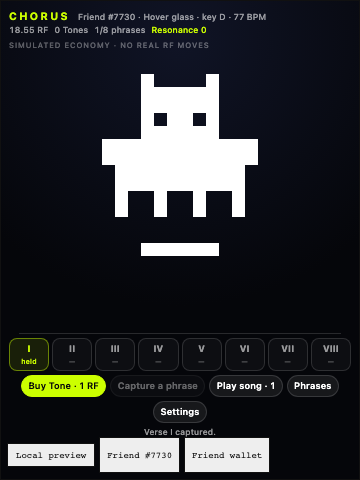
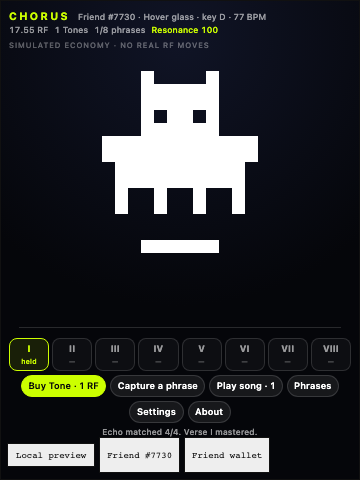
Second pass: lock actions during playback, honour reduced motion, prove the echo
Review of the first cut found two real defects:

- Only the echo blocked the action buttons, so during the ~3s reveal a player
  holding a spare Tone could start a second capture over the top of the first,
  spending it and tangling the audio and echo state. All non-idle stages now
  own the controls.
- The Settings "Reduce motion" toggle only reached the canvas. Every CSS
  transition kept running because they were guarded solely by the
  prefers-reduced-motion media query. The toggle now sets a root attribute the
  stylesheet honours.

Also: track gross RF spent on Tones rather than inferring it from the stake,
which netted out redemptions and understated activity; make the background
inert while a menu is open; label rail slots for screen readers; reach the
About panel from the toolbar; explain why buying is unavailable instead of
only graying the button; add a full-resonance state.

Tests now cover what was previously only assumed. The double-capture assertion
buys two Tones first, so it fails against the old code rather than passing
because the player simply ran out. Echo scoring is driven on the composed
77 BPM cadence from inside the page and asserts the phrase is mastered, which
confirms hit detection works at all. Stable over four consecutive runs.

diff --git a/games/chorus/index.tsx b/games/chorus/index.tsx
@@ -18,7 +18,7 @@ const ECHO_WINDOW_MS = 160;
 const MASTERY = 0.6;
 const rf = (value: bigint) => `${formatGameAmount(value, 18)} RF`;
 
-type Menu = "buy" | "inventory" | "settings" | "about" | null;
+type Menu = "inventory" | "settings" | "about" | null;
 type Stage =
   | { kind: "idle" }
   | { kind: "revealing"; outcomeId: number }
@@ -42,6 +42,7 @@ export default function Chorus({ friendId, client, paused }: GameComponentProps)
   const [beamNote, setBeamNote] = useState(-1);
   const [hitNotes, setHitNotes] = useState<readonly number[]>([]);
   const [artAttempt, setArtAttempt] = useState(0);
+  const [spentRf, setSpentRf] = useState(0n);
 
   const synth = useRef<ChorusSynth | null>(null);
   const cues = useRef<FriendSoundKit | null>(null);
@@ -75,7 +76,7 @@ export default function Chorus({ friendId, client, paused }: GameComponentProps)
     cues.current = createFriendSoundKit({ muted: false });
     setSnapshot(null); setSprites(null); setMenu(null); setStage({ kind: "idle" });
     setError(""); setArtError(""); setMessage(""); setBusy(false);
-    setMuted(false); setResonance(0); setMastered([]); setLit(null);
+    setMuted(false); setResonance(0); setMastered([]); setLit(null); setSpentRf(0n);
     locked.current = false;
 
     // The runtime leaves its loading state only once the child reads its snapshot.
@@ -335,11 +336,16 @@ export default function Chorus({ friendId, client, paused }: GameComponentProps)
   const pendingPlay = snapshot.plays.some(play => play.outcomeId === null);
   const canCapture = Boolean(song) && (pendingPlay || snapshot.consumables > 0n);
   const performing = stage.kind === "echo";
+  // Any non-idle stage owns the audio and the timers; nothing else may start.
+  const engaged = stage.kind !== "idle";
   // The phrase currently sounding or being echoed, drawn as pitch-height bars.
   const ribbon = song && lit !== null && stage.kind !== "idle" ? song.phrases[lit] : null;
-  const spent = snapshot.stake - maxPrize * 10n;
 
-  return <section className="chorus" aria-label="Chorus" aria-busy={busy} data-stage={stage.kind}>
+
+  return <section className="chorus" aria-label="Chorus" aria-busy={busy} data-stage={stage.kind}
+    data-reduced-motion={reducedMotion ? "true" : undefined} data-complete={complete ? "true" : undefined}>
+    {/* Background is inert while a menu owns the frame, so Tab cannot reach it. */}
+    <div className="chorus-body" inert={Boolean(menu) || paused || undefined}>
     <header className="chorus-hud">
       <div className="chorus-identity">
         <strong>Chorus</strong>
@@ -384,6 +390,7 @@ export default function Chorus({ friendId, client, paused }: GameComponentProps)
       {definition.outcomes.map((outcome, index) => {
         const count = held[index];
         return <li key={outcome.name}
+          aria-label={`${outcome.name}: ${count > 0 ? `held${count > 1 ? `, ${count} copies` : ""}` : "not yet captured"}`}
           className={`chorus-slot${count > 0 ? " held" : ""}${lit === index ? " lit" : ""}${mastered.includes(index) ? " mastered" : ""}`}>
           <span className="chorus-numeral" aria-hidden="true">{ROMAN[index]}</span>
           <span className="chorus-name">{outcome.name}</span>
@@ -393,31 +400,38 @@ export default function Chorus({ friendId, client, paused }: GameComponentProps)
     </ol>
 
     <div className="chorus-actions">
-      <button type="button" className="rf-frame-primary" disabled={!canBuy || busy || paused || performing}
+      <button type="button" className="rf-frame-primary" disabled={!canBuy || busy || paused || engaged}
         onClick={() => void act(async () => {
           await client.buy(1n);
+          setSpentRf(total => total + definition.price);
           void cues.current?.unlock();
           cues.current?.play("purchase");
           setMessage("One simulated Tone added.");
         })}>Buy Tone · {rf(definition.price)}</button>
-      <button type="button" disabled={!canCapture || busy || paused || performing} onClick={() => void capture()}>
+      <button type="button" disabled={!canCapture || busy || paused || engaged} onClick={() => void capture()}>
         {pendingPlay ? "Finish capture" : "Capture a phrase"}
       </button>
-      <button type="button" disabled={busy || paused || performing || heldCount === 0 || stage.kind === "song"}
+      <button type="button" disabled={busy || paused || engaged || heldCount === 0}
         onClick={() => void playSong()}>{complete ? "Play the whole song" : `Play song · ${heldCount}`}</button>
       {stage.kind === "song" && <button type="button" onClick={stopEverything}>Stop</button>}
-      <button type="button" onClick={() => setMenu("inventory")} disabled={busy || performing}>Phrases</button>
-      <button type="button" onClick={() => setMenu("settings")} disabled={performing}>Settings</button>
+      <button type="button" onClick={() => { stopEverything(); setMenu("inventory"); }} disabled={busy}>Phrases</button>
+      <button type="button" onClick={() => { stopEverything(); setMenu("settings"); }}>Settings</button>
+      <button type="button" onClick={() => { stopEverything(); setMenu("about"); }}>About</button>
     </div>
 
     <p className="chorus-feedback" role={error ? "alert" : "status"}>
-      {error || message || (busy ? "Waiting for the runtime…" : complete
-        ? "Every phrase is held. Play the whole song."
+      {error || message || (busy ? "Waiting for the runtime…"
+        : !canBuy && snapshot.consumables === 0n && !pendingPlay
+          ? (snapshot.rfBalance < definition.price
+            ? "Not enough simulated RF for another Tone."
+            : "Purchases pause until the game holds enough free backing.")
+        : complete ? "Full resonance — every phrase is held. Play the whole song."
         : "Buy a Tone, capture a phrase, echo it back.")}
     </p>
+    </div>
 
     {menu && <GameMenu
-      title={menu === "inventory" ? "Phrases held" : menu === "settings" ? "Settings" : menu === "buy" ? "Tones" : "About Chorus"}
+      title={menu === "inventory" ? "Phrases held" : menu === "settings" ? "Settings" : "About Chorus"}
       onClose={busy ? undefined : () => { setMenu(null); setError(""); }}>
       {menu === "inventory" ? <>
         <p>A phrase you hold is audible in your song. Redeeming it returns {"its"} simulated RF and removes it from the arrangement.</p>
@@ -447,7 +461,7 @@ export default function Chorus({ friendId, client, paused }: GameComponentProps)
         <p className="chorus-note">
           Simulated RF, Tones and phrases last for this runtime session only; reloading starts a new one.
           The SDK supplies wallet connection and fresh ownership verification.
-          Simulated RF committed this session: {rf(spent > 0n ? spent : 0n)}.
+          Simulated RF spent on Tones this session: {rf(spentRf)}.
         </p>
       </> : <>
         <p>Every Friend's song comes from its own on-chain data: {"familyOf(tokenId)"} chooses the voice and scale, {"seedOf(tokenId)"} sets the key, tempo and melody.</p>

diff --git a/games/chorus/style.css b/games/chorus/style.css
@@ -6,18 +6,22 @@
   --dim: rgba(255, 255, 255, 0.58);
   position: absolute;
   inset: 0;
-  display: flex;
-  flex-direction: column;
-  gap: clamp(2px, 0.9vh, 10px);
   box-sizing: border-box;
-  /* Keep clear of the runtime's own bottom-left and bottom-right controls. */
-  padding: clamp(6px, 1.6vh, 16px) clamp(8px, 2vw, 22px) clamp(40px, 8.5vh, 60px);
   background:
     radial-gradient(120% 90% at 50% 8%, #101426 0%, var(--ink) 62%),
     var(--ink);
   color: #fff;
   font: 500 clamp(10px, 1.55vh, 14px) / 1.35 ui-sans-serif, system-ui, sans-serif;
   overflow: hidden;
+}
+.chorus-body {
+  display: flex;
+  flex-direction: column;
+  gap: clamp(2px, 0.9vh, 10px);
+  height: 100%;
+  box-sizing: border-box;
+  /* Keep clear of the runtime's own bottom-left and bottom-right controls. */
+  padding: clamp(6px, 1.6vh, 16px) clamp(8px, 2vw, 22px) clamp(40px, 8.5vh, 60px);
 }
 .chorus button {
   font: inherit;
@@ -94,10 +98,27 @@
   .chorus-pad:active { transform: none; }
 }
 
+.chorus[data-reduced-motion="true"] *,
+.chorus[data-reduced-motion="true"] *::before,
+.chorus[data-reduced-motion="true"] *::after {
+  transition: none !important;
+  animation: none !important;
+}
+.chorus[data-reduced-motion="true"] .chorus-pad:active { transform: none; }
+
+/* Full resonance: every phrase held. The rail reads as one lit object. */
+.chorus[data-complete="true"] .chorus-slot.held {
+  background: rgba(204, 255, 0, 0.18);
+  border-color: var(--accent);
+  box-shadow: 0 0 14px rgba(204, 255, 0, 0.22);
+}
+.chorus[data-complete="true"] .chorus-identity strong { text-shadow: 0 0 16px rgba(204, 255, 0, 0.65); }
+
 /* The note ribbon: every note is a bar whose height is its pitch. This is the
    visual twin of the audio, so the game reads identically with sound off. */
-.chorus-ribbon { display: flex; align-items: flex-end; justify-content: center; gap: clamp(3px, 0.8vw, 7px); width: min(460px, 94%); height: clamp(30px, 8.5vh, 68px); flex: 0 0 auto; pointer-events: none; border-bottom: 1px solid var(--line); }
+.chorus-ribbon { display: flex; align-items: flex-end; justify-content: center; gap: clamp(3px, 0.8vw, 7px); width: min(460px, 94%); height: clamp(30px, 8.5vh, 68px); flex: 0 0 auto; pointer-events: none; border-bottom: 1px solid var(--line); margin-bottom: clamp(3px, 1.2vh, 10px); }
 .chorus-bar { flex: 1 1 0; min-width: 5px; max-width: 54px; border-radius: 3px 3px 0 0; background: rgba(255, 255, 255, 0.16); transition: background 90ms linear, box-shadow 90ms linear; }
 .chorus-bar.hit { background: rgba(204, 255, 0, 0.5); }
 .chorus-bar.now { background: var(--accent); box-shadow: 0 0 12px rgba(204, 255, 0, 0.7); }
 @media (prefers-reduced-motion: reduce) { .chorus-bar { transition: none; } }
+.chorus[data-reduced-motion="true"] .chorus-bar { transition: none; }

diff --git a/README.md b/README.md
@@ -118,14 +118,33 @@ npm run build           # static preview bundle into ./dist
 | `friendsdk check` | valid; expected reward 0.9 RF, maximum 7 RF |
 | Browser check @ 960 px | pass |
 | Browser check @ 360 px | pass |
+| Echo scoring played in time | 4/4 matched, phrase mastered |
 | FriendSDK `npm test` (v0.1.2 checkout) | 116 tests, 114 pass, 0 fail, 2 skipped (contract tests skip without Foundry) |
 | `tsc --noEmit` | clean |
 
 The browser check drives the **real** runtime in headless Chromium using the SDK's
-read-only wallet/RPC fixtures, asserting the whole loop: artwork resolves, the
-composed voice matches the fixture Friend, buy → capture → echo → hold, play song,
-redeem releases the phrase, and the mute and reduced-motion controls work. Mocks
-are confined to that automated check; `dev` and `build` keep the real ownership gate.
+read-only wallet/RPC fixtures. It asserts:
+
+- the Friend's canonical artwork resolves from the registry;
+- the composed voice, key and tempo match the fixture Friend (family 5, seed 7730
+  produces Hover glass in D at 77 BPM);
+- buy → capture → hold, and that the phrase lights its rail slot;
+- **the capture and play controls stay locked while a phrase is playing**, with a
+  spare Tone in hand, so a second capture cannot start over the first;
+- **the echo scores when played in time** — the pad is driven on the composed
+  77 BPM cadence from inside the page and must master the phrase;
+- Resonance rises while the ledger is untouched, since mastery is non-financial;
+- redeeming releases the phrase and darkens the slot;
+- the mute and reduced-motion controls work, and the reduced-motion toggle
+  reaches the CSS and not only the canvas.
+
+Mocks are confined to that automated check; `dev` and `build` keep the real
+ownership gate.
+
+**Not covered by the automated check:** the fixture pins the preview roll, so
+every settle resolves to outcome 1. The full-resonance state (all eight phrases
+held) and the rarer phrases are therefore exercised by hand rather than by the
+harness.
 
 ## Layout
 

diff --git a/games/chorus/README.md b/games/chorus/README.md
@@ -128,10 +128,15 @@ node games/chorus/test.mjs 360 ./artifacts/chorus-360.png
 ```
 
 `test.mjs` drives the real runtime in headless Chromium with the SDK's read-only
-wallet/RPC fixtures and asserts the full loop: artwork resolves, the composed
-voice matches the fixture Friend, buy → capture → echo → hold, play, redeem
-releases the phrase, and the mute and reduced-motion controls work. Requires
-`playwright` and Chromium.
+wallet/RPC fixtures. It asserts that the artwork resolves, the composed voice
+matches the fixture Friend, buy → capture → hold works, the capture and play
+controls stay locked while a phrase is playing (with a spare Tone in hand), the
+echo masters the phrase when played on the composed 77 BPM cadence, Resonance
+rises without touching the ledger, redeeming releases the phrase, and the mute
+and reduced-motion controls work. Requires `playwright` and Chromium.
+
+The fixture pins the preview roll to outcome 1, so the full-resonance state and
+the rarer phrases are checked by hand rather than by the harness.
 
 ## Known limitations
 
